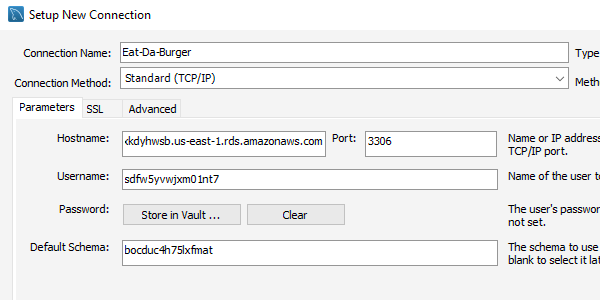
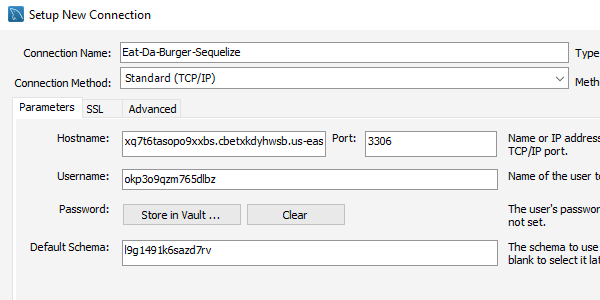
readme added

diff --git a/homework/hw13/README.md b/homework/hw13/README.md
@@ -22,9 +22,9 @@ To run Eat-Da-Burger, you will need [Bash](https://git-scm.com/downloads/), [Nod
 
 ![How to Run: Step 2](readme/how_to_run_step2.png?raw=true)
 
-3. To deploy on Heroku, you will need to move `hw12` directory to a folder that isn't a Git repository.
+3. To deploy on Heroku, you will need to move `hw13` directory to a folder that isn't a Git repository.
 
-Type `mkdir ../../../hw12; mv {.,}* ../../../hw12; cd ../../../hw12` to move `hw12` to your starting folder.
+Type `mkdir ../../../hw13; mv {.,}* ../../../hw13; cd ../../../hw13` to move `hw13` to your starting folder.
 
 ![How to Run: Step 3](readme/how_to_run_step3.png?raw=true)
 
@@ -61,6 +61,4 @@ Enter your username, hostname, port number, and default schema. Once you click o
 
 ![How to Configure Database: Step 2b](readme/how_to_configure_database_step2b.png?raw=true)
 
-3. Finally, connect to your database, then run `db/schema.sql` and `db/seeds.sql`.
-
-![How to Configure Database: Step 3](readme/how_to_configure_database_step3.png?raw=true)
+3. Sequelize will automatically create the database for you. Sit back and relax!
